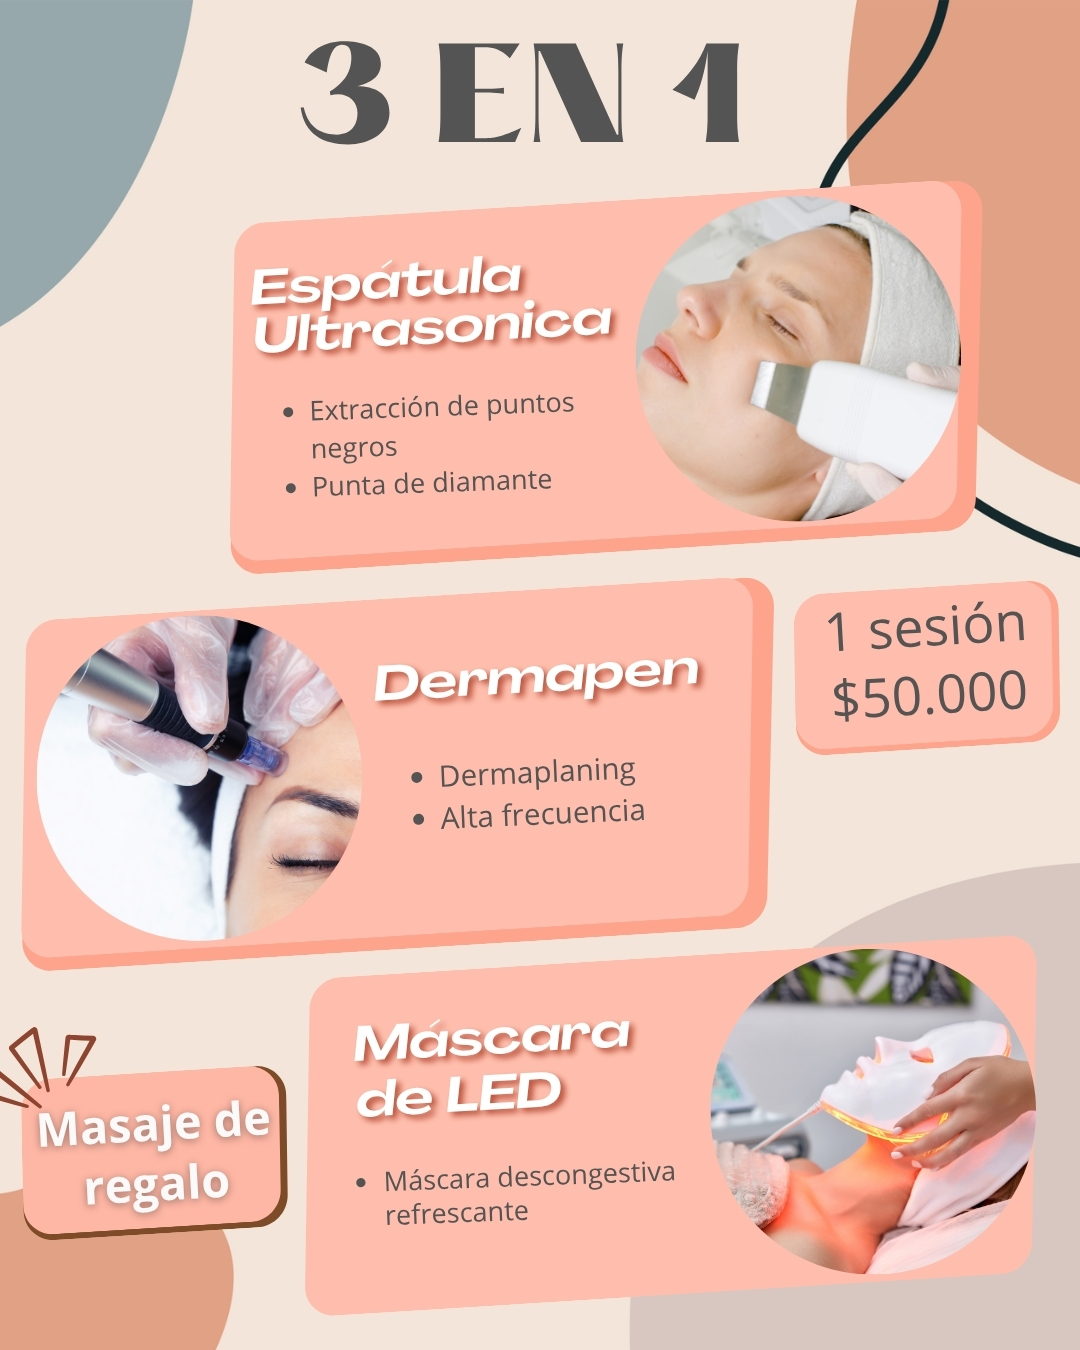
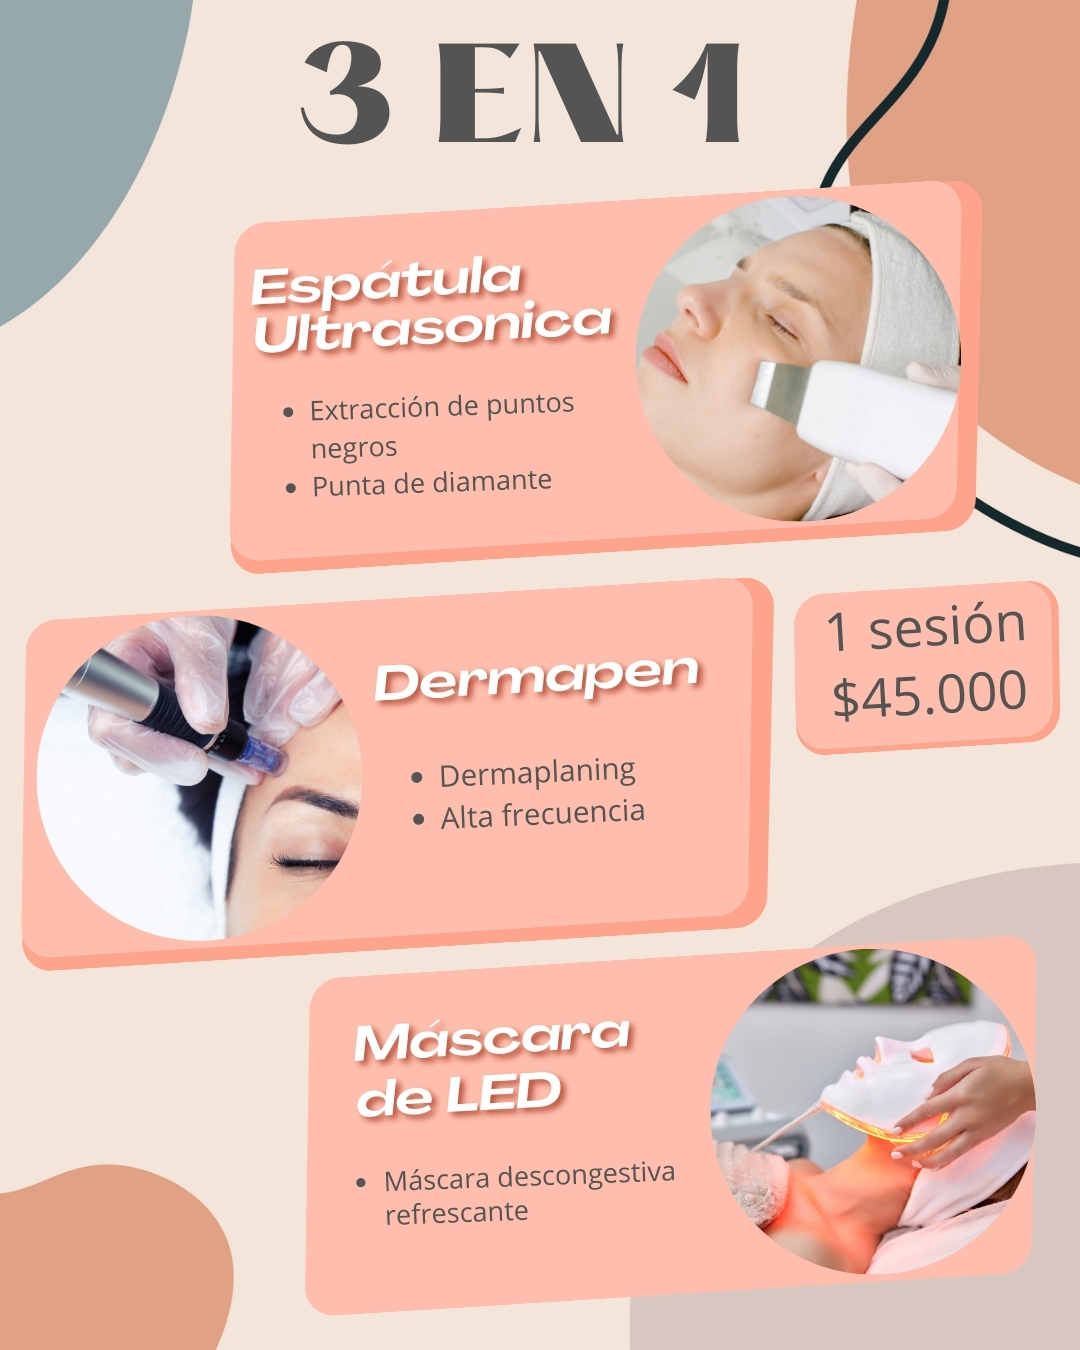
promo 3 en 1 modificada

Changed region(s): [[0.0, 0.7467, 0.275, 0.9333], [0.7944, 0.4978, 0.8556, 0.5289]]

diff --git a/catalogo.html b/catalogo.html
@@ -1330,7 +1330,7 @@
                                 <li>✓ Masaje de regalo 🎁</li>
                             </ul>
                             <div style="margin-bottom: 20px; text-align: center;">
-                                <span style="font-size: 1.8rem; font-weight: 700; color: var(--primary);">$50.000</span>
+                                <span style="font-size: 1.8rem; font-weight: 700; color: var(--primary);">$45.000</span>
                             </div>
                             <a href="https://wa.me/5492615104019?text=Hola! Me interesa el Tratamiento 3 en 1"
                                 class="whatsapp-btn" target="_blank" style="width: 100%; justify-content: center;">
